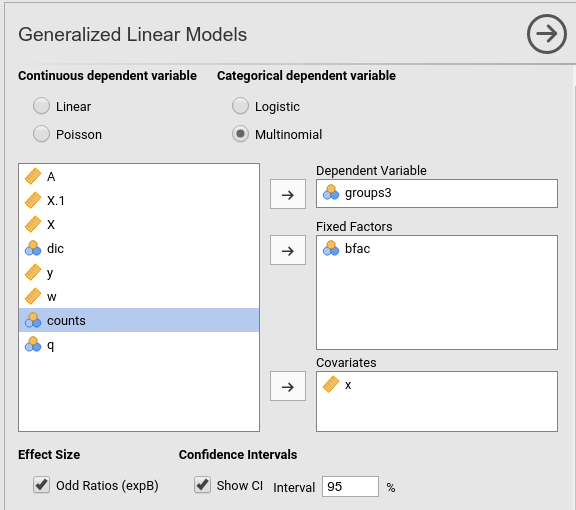
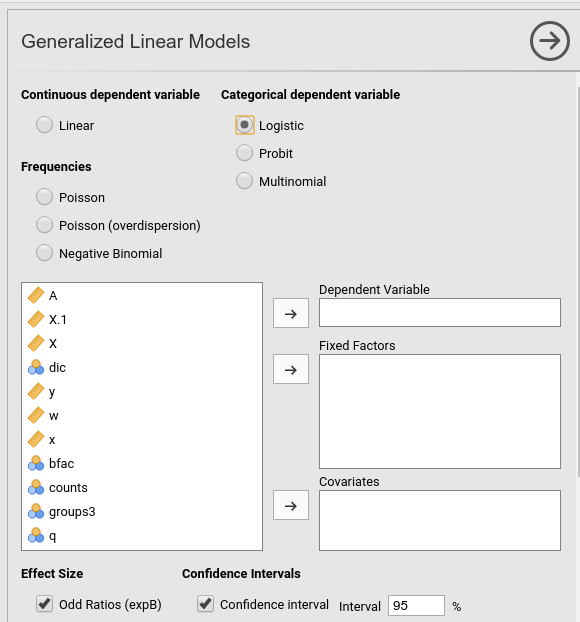
master

Changed region(s): [[0.0, 0.0, 1.0, 1.0]]

diff --git a/docs/index.html b/docs/index.html
@@ -243,6 +243,8 @@ $(document).ready(function () {
 <li>Random coefficients ANOVA-ANCOVA (Mixed)</li>
 <li>Logistic regression (GZLM)</li>
 <li>Logistic ANOVA-like model (GZLM)</li>
+<li>Probit regression (GZLM)</li>
+<li>Probit ANOVA-like model (GZLM)</li>
 <li>Multinomial regression (GZLM)</li>
 <li>Multinomial ANOVA-like model (GZLM)</li>
 <li>Poisson regression (GZLM)</li>

diff --git a/docs/gzlm.html b/docs/gzlm.html
@@ -331,7 +331,10 @@ div.tocify {
 <ul>
 <li>Linear model</li>
 <li>Poisson model</li>
+<li>Poisson overdispersed</li>
+<li>Negative binomial model</li>
 <li>Logistic model</li>
+<li>Probit model</li>
 <li>Multinomial model</li>
 </ul>
 <p><img src="gzlm/variables.png" class="img-responsive" alt=""></p>
